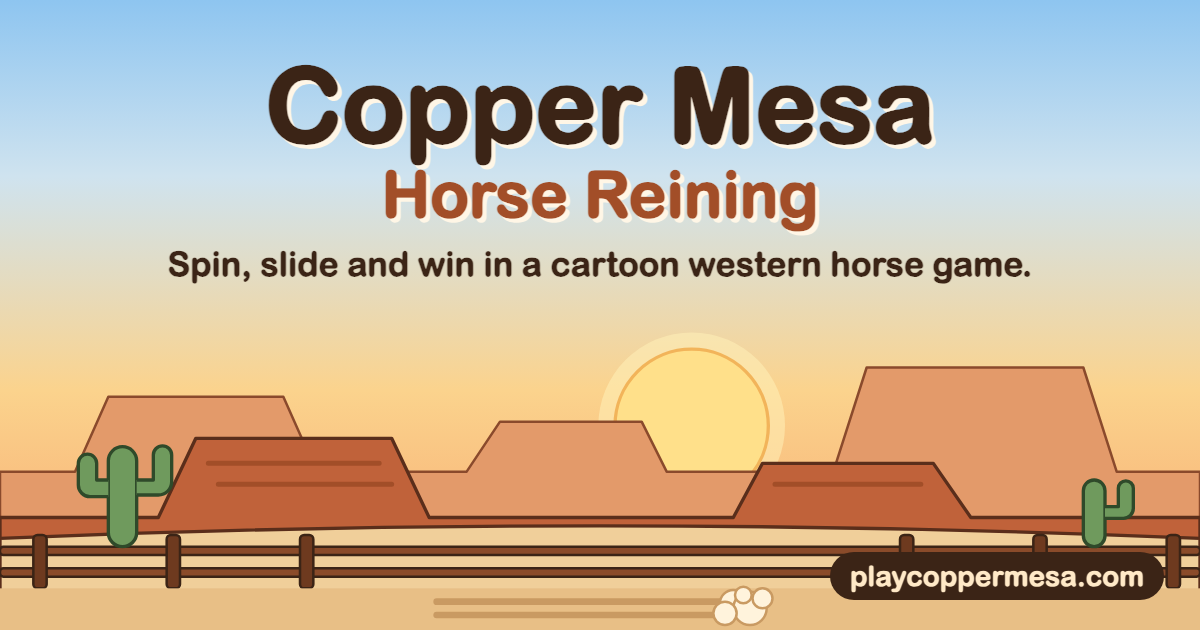
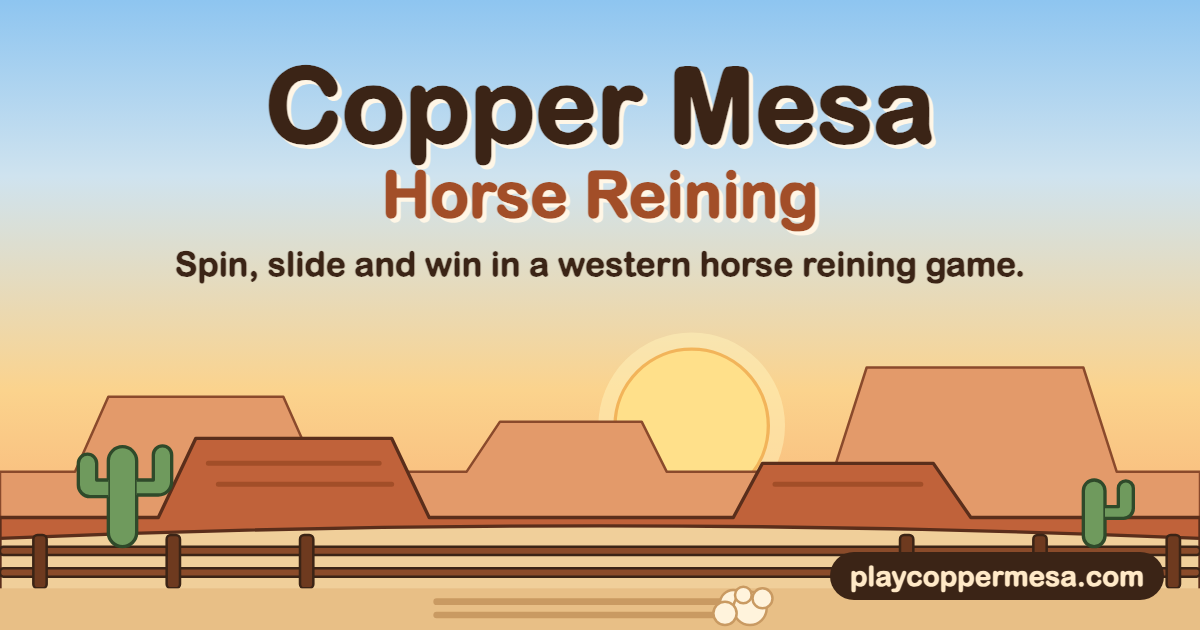
Switch wording from cartoon to semi-realistic western
The game's art direction changed from cartoon to semi-realistic, so the
tagline, page title, descriptions, structured data, a section heading,
the stable card and the link-preview image now say "western horse
reining game" instead of "cartoon".

Changed region(s): [[0.1233, 0.3921, 0.8633, 0.4524]]

diff --git a/index.html b/index.html
@@ -3,8 +3,8 @@
 <head>
   <meta charset="utf-8">
   <meta name="viewport" content="width=device-width, initial-scale=1">
-  <title>Copper Mesa: Horse Reining | A cartoon western horse game</title>
-  <meta name="description" content="Copper Mesa: Horse Reining is a cute, cartoony 3D horse game about reining: sliding stops, spins, rollbacks and lead changes. In development, free demo coming soon.">
+  <title>Copper Mesa: Horse Reining | A western horse reining game</title>
+  <meta name="description" content="Copper Mesa: Horse Reining is a 3D western horse game about reining: sliding stops, spins, rollbacks and lead changes. Build a stable of Quarter Horses and compete for the championship. Free demo coming soon.">
   <link rel="canonical" href="https://playcoppermesa.com/">
   <link rel="icon" href="favicon.svg" type="image/svg+xml">
   <meta name="theme-color" content="#f6a26b">
@@ -12,12 +12,12 @@
   <meta property="og:type" content="website">
   <meta property="og:site_name" content="Copper Mesa: Horse Reining">
   <meta property="og:title" content="Copper Mesa: Horse Reining">
-  <meta property="og:description" content="Spin, slide and win in a cartoon western horse game. In development, free demo coming soon.">
+  <meta property="og:description" content="Spin, slide and win in a western horse reining game. In development, free demo coming soon.">
   <meta property="og:url" content="https://playcoppermesa.com/">
   <meta property="og:image" content="https://playcoppermesa.com/social-card.png">
   <meta property="og:image:width" content="1200">
   <meta property="og:image:height" content="630">
-  <meta property="og:image:alt" content="Copper Mesa: Horse Reining title over a cartoon desert arena at sunset">
+  <meta property="og:image:alt" content="Copper Mesa: Horse Reining title over a desert arena at sunset">
   <meta name="twitter:card" content="summary_large_image">
 
   <script type="application/ld+json">
@@ -27,7 +27,7 @@
     "name": "Copper Mesa: Horse Reining",
     "alternateName": "Copper Mesa",
     "url": "https://playcoppermesa.com/",
-    "description": "A cute, cartoony 3D horse game about reining, the western riding sport of sliding stops, spins, rollbacks and lead changes. Build a stable, create your rider, and work your way up to the Copper Mesa Championship.",
+    "description": "A 3D western horse game about reining, the western riding sport of sliding stops, spins, rollbacks and lead changes. Build a stable, create your rider, and work your way up to the Copper Mesa Championship.",
     "genre": ["Sports", "Simulation"],
     "gamePlatform": "Web browser",
     "applicationCategory": "Game",
@@ -207,7 +207,7 @@
     <div class="hero-text">
       <p class="status">FREE DEMO COMING SOON</p>
       <h1>Copper Mesa<span class="sub">Horse Reining</span></h1>
-      <p class="tagline">Spin, slide and win in a cartoon western horse game.</p>
+      <p class="tagline">Spin, slide and win in a western horse reining game.</p>
       <div class="buttons">
         <a class="btn" href="https://www.youtube.com/@playcoppermesa" rel="me noopener">&#9654; YouTube</a>
         <a class="btn" href="https://www.tiktok.com/@playcoppermesa" rel="me noopener">&#9834; TikTok</a>
@@ -269,7 +269,7 @@
   <main>
     <section id="game">
       <div class="wrap">
-        <h2>A horse reining game, made cute</h2>
+        <h2>Real reining, made for everyone</h2>
         <p class="lead">You've just moved to Copper Mesa, a small desert town that lives for its arena. Build a stable of horses, train them, and compete in reining shows. Each win opens up more of the town, all the way to the Copper Mesa Championship.</p>
         <div class="grid">
           <div class="card">
@@ -280,7 +280,7 @@
           <div class="card">
             <span class="icon" aria-hidden="true">&#128052;</span>
             <h3>Build your stable</h3>
-            <p>Every horse has its own skills and quirks. Train them up and pick the right one for each pattern.</p>
+            <p>Quarter Horses with real coat colors, each with its own skills and quirks. Train them up and pick the right one for each pattern.</p>
           </div>
           <div class="card">
             <span class="icon" aria-hidden="true">&#127775;</span>
